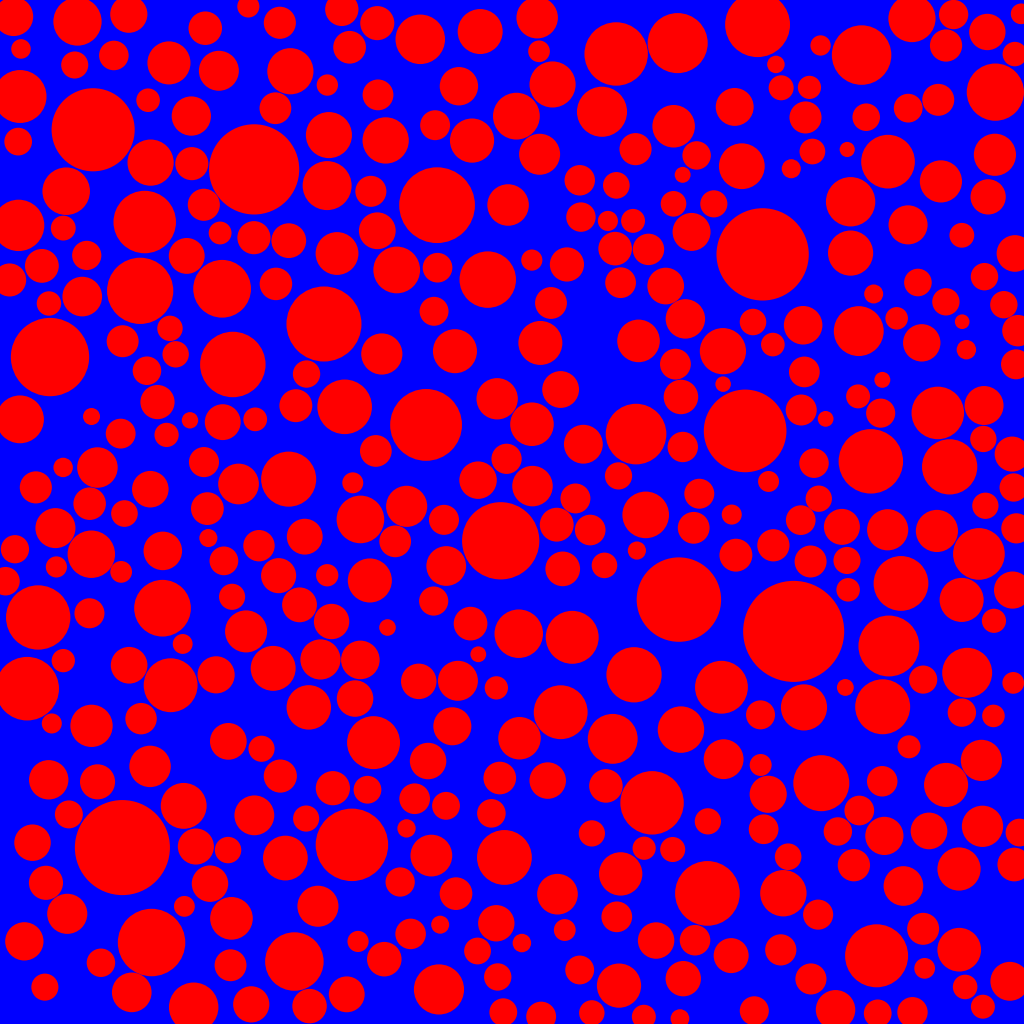
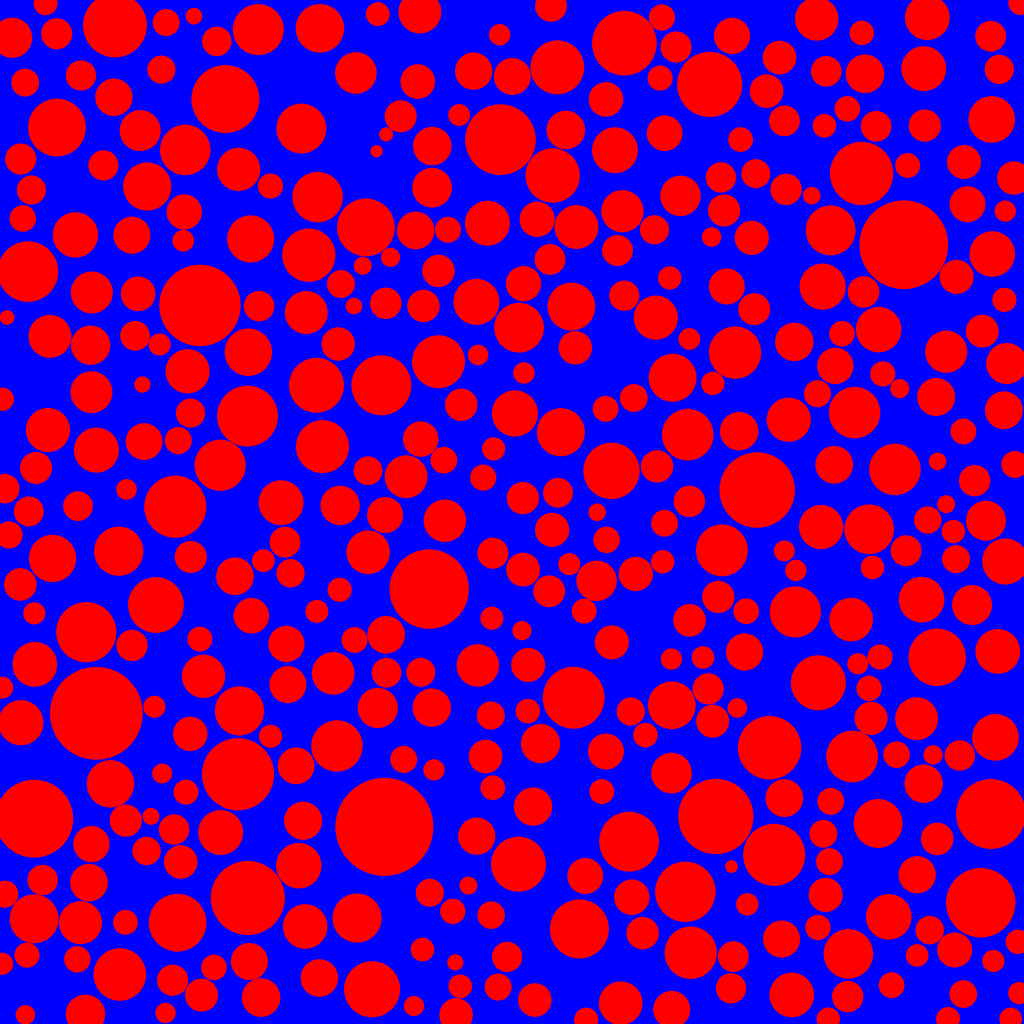
plot functions!

diff --git a/samples.py b/samples.py
@@ -26,7 +26,7 @@ def clear_folder(folder_path):
 
 # Parameters
 std_dev_uni = 0.4
-AP_vol_50A = 0.5
+AP_vol_50A = 0.45
 avg_rad_50A = np.linspace(60e-6, 110e-6, 100)
 
 avg_rad_50B = 70e-6  # fixed particle size
@@ -113,11 +113,11 @@ def generateA():
         _, _, AP_achieved, _ = gm.gen_struct(
             temp_png, save_path_ignore, temp_xyzr,
             img_size, physical_size, radius, AP_vol_50A,
-            std_dev_uni, max_attempts, mode=1, max_tries=10000
+            std_dev_uni, max_attempts, mode=1, max_tries=100
         )
 
         AP_str = str(int(AP_achieved * 10000))  # 4-digit AP fraction without leading 0
-        radius_um = int(radius * 1e6) #3 digit radius
+        radius_um = int(radius * 1e7) #3 digit radius
         final_png = os.path.join(folderA_png, f"uni_R{radius_um}um_AP{AP_str}.png")
         final_xyzr = os.path.join(folderA_xyzr, f"uni_R{radius_um}um_AP{AP_str}.xyzr")
         ap, htpb, interface = lc.vert_avg(save_path_ignore)
@@ -145,7 +145,7 @@ def generateB():
         _, _, AP_achieved, _ = gm.gen_struct(
             temp_png, save_path_ignore, temp_xyzr,
             img_size, physical_size, avg_rad_50B, AP_target,
-            std_dev_uni, max_attempts, mode=1, max_tries=10
+            std_dev_uni, max_attempts, mode=1, max_tries=100
         )
 
         AP_str = str(int(AP_achieved * 10000))
@@ -238,9 +238,9 @@ def generateD():
 
 
 if __name__ == "__main__":
-    reset()
-    generateA()
-    generateB()
-    print('Success!')
+    #reset()
+    #generateA()
+    #generateB()
+    #print('Success!')
     gp.plotA()
     gp.plotB()

diff --git a/gen_plots.py b/gen_plots.py
@@ -18,8 +18,7 @@ def plotA():
         next(f)  # skip header
         for line in f:
             cols = [float(x.strip()) for x in line.split(',')]
-            
-            radius_um.append(cols[0])
+            radius_um.append(cols[0]/10)
             ap_percentA.append(cols[1])
             htpb_percentA.append(cols[2])
             interface_percentA.append(cols[3])
@@ -29,8 +28,8 @@ def plotA():
     plt.plot(radius_um, htpb_percentA, label="HTPB %")
     plt.plot(radius_um, interface_percentA, label="Interface %")
 
-    plt.xlabel("Sample Index")
-    plt.ylabel("Value")
+    plt.xlabel("Average Particle Size (um)")
+    plt.ylabel("% Component")
     plt.title("Results Plot")
     plt.legend()
     plt.grid(True)
@@ -61,8 +60,8 @@ def plotB():
     plt.plot(AP_achieved, htpb_percentB, label="HTPB %")
     plt.plot(AP_achieved, interface_percentB, label="Interface %")
 
-    plt.xlabel("Sample Index")
-    plt.ylabel("Value")
+    plt.xlabel("AP %")
+    plt.ylabel("% Component")
     plt.title("Results Plot")
     plt.legend()
     plt.grid(True)
@@ -73,5 +72,5 @@ def plotB():
 
 
 if __name__ == "__main__":
-    plotB()
+    plotA()
     
